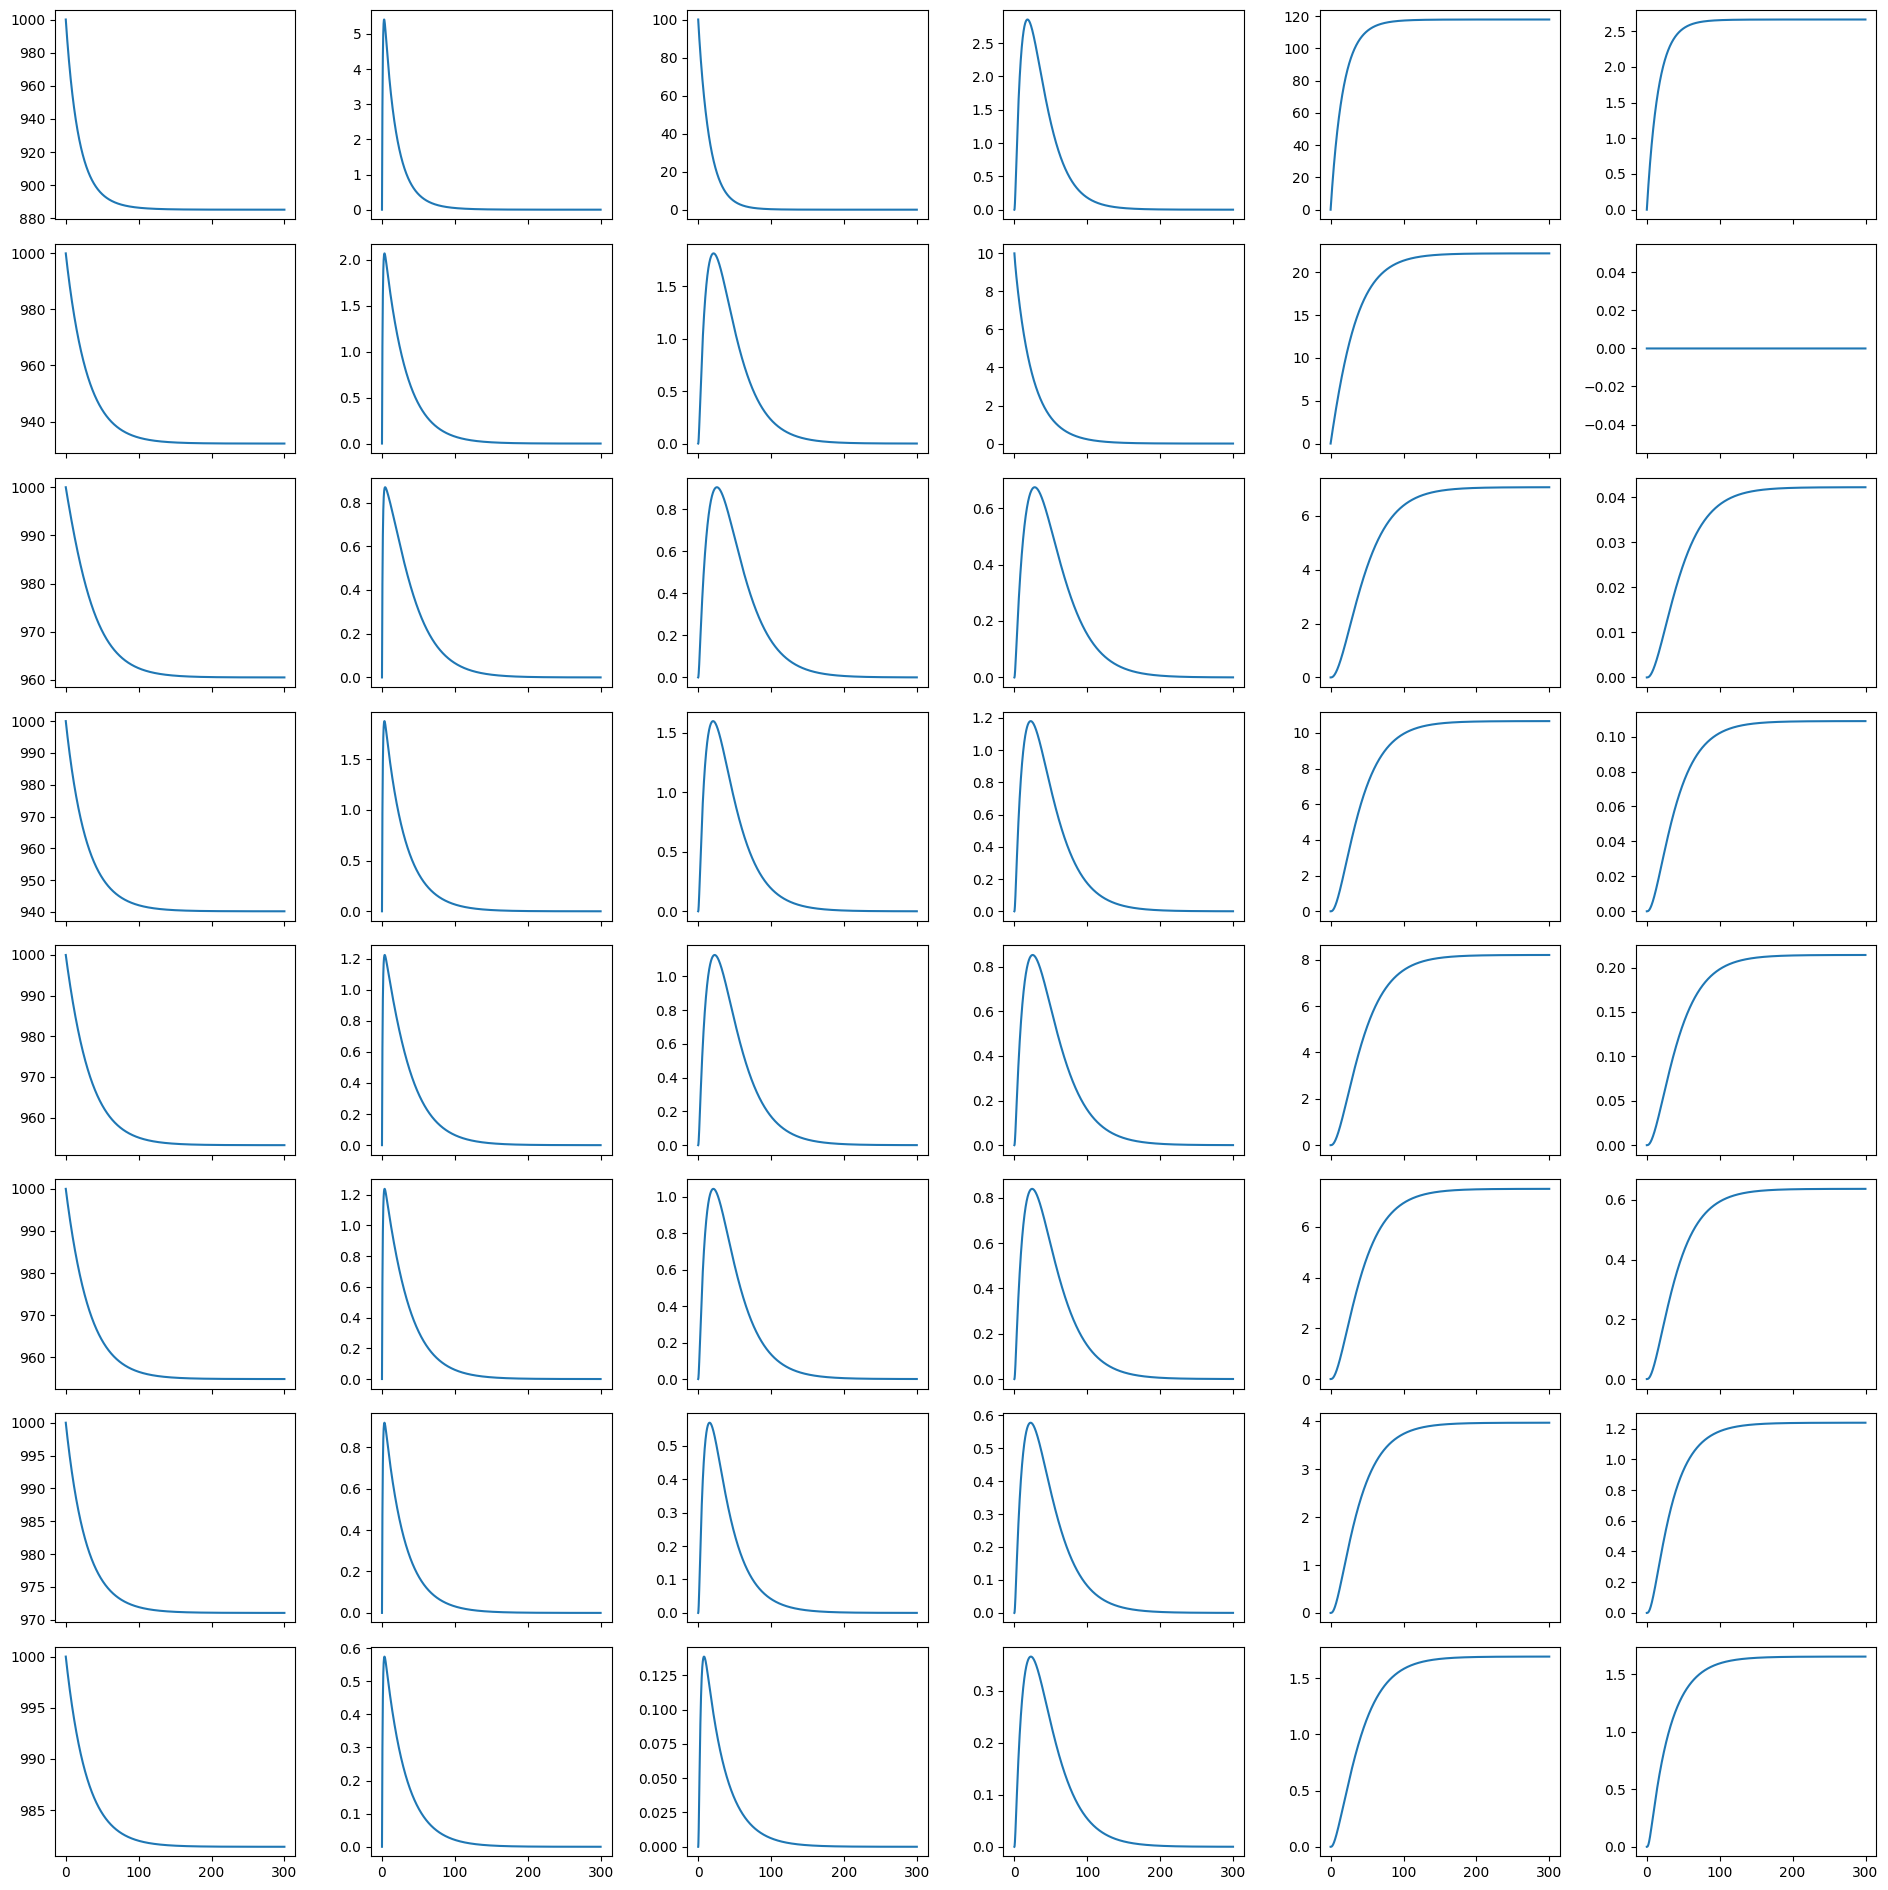
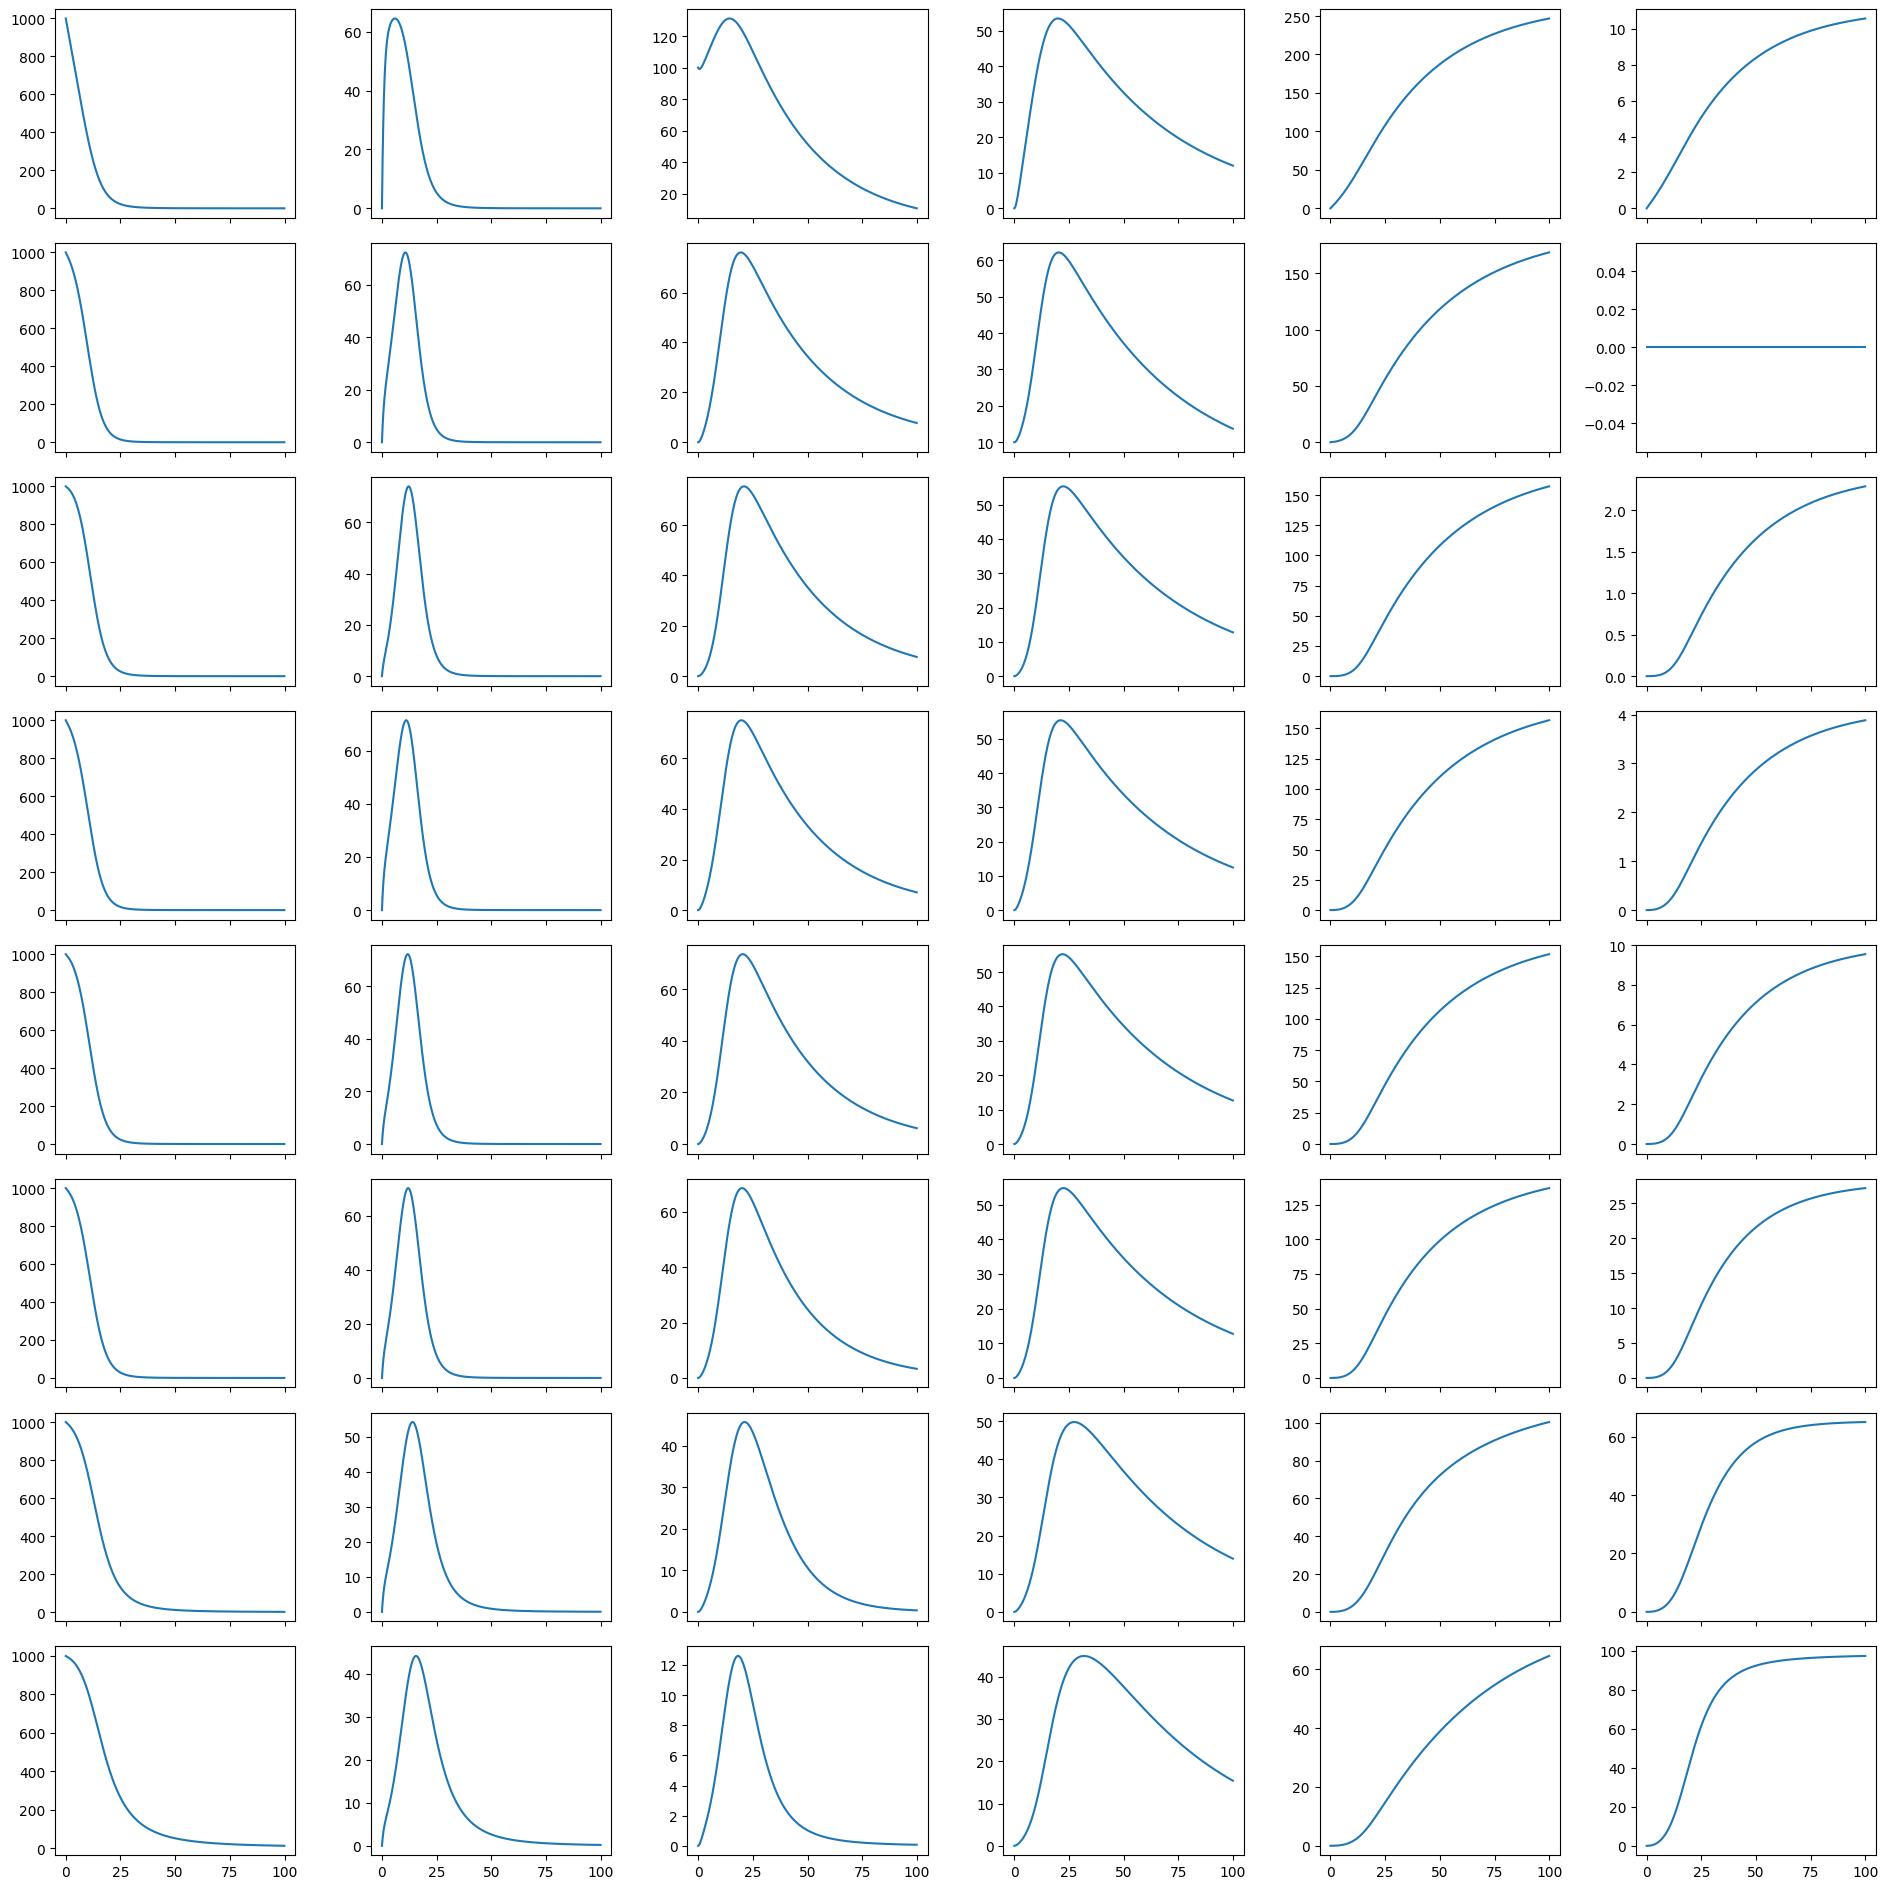
added some plotting options

diff --git a/seird_solver.py b/seird_solver.py
@@ -3,7 +3,10 @@ from utils.model_equations import SEIRD
 from utils.example_coefficient_matrices import (
     sweden_coefficients as sweden_coeff,
 )
-from utils.example_contact_matrices import sweden_contact_matrix
+from utils.example_contact_matrices import (
+    sweden_contact_matrix,
+    mozambique_contact_matrix,
+)
 
 
 def sum_m_contact_nm_times_I_m(contact_nm, I_m):
@@ -143,7 +146,7 @@ y0 = np.matrix(
 )
 y0_big = np.matrix(
     [
-        [1000, 1000, 1000, 1000, 1000, 1000, 1000, 1000],
+        [10000, 10000, 10000, 10000, 10000, 10000, 10000, 10000],
         [0, 0, 0, 0, 0, 0, 0, 0],
         [100, 0, 0, 0, 0, 0, 0, 0],
         [0, 10, 0, 0, 0, 0, 0, 0],
@@ -154,19 +157,57 @@ y0_big = np.matrix(
 
 
 solutions = solve(
-    SEIRD, (0, 300), y0_big, sweden_coeff, sweden_contact_matrix, 0.1
+    SEIRD, (0, 100), y0_big, sweden_coeff, sweden_contact_matrix, 0.1
 )
 
 
 import matplotlib.pyplot as plt
 
-fig, axs = plt.subplots(8, 6, sharex=True)
-axs.flatten()
-fig.set_size_inches(19, 19)
-plt.autoscale()
+
+# compare each age group's solutions to 6 diff eqs
+fig, axs = plt.subplots(
+    3,
+    2,
+    sharex=True,
+    gridspec_kw={"height_ratios": [1.5, 1.5, 1.5], "hspace": 0.1},
+)
+labels = [
+    [f"S$_{i}$" for i in range(1, 9)],
+    [f"E$_{i}$" for i in range(1, 9)],
+    [r"I$_{s," + str(i) + r"}$" for i in range(1, 9)],
+    [r"I$_{a," + str(i) + r"}$" for i in range(1, 9)],
+    [f"R$_{i}$" for i in range(1, 9)],
+    [f"D$_{i}$" for i in range(1, 9)],
+]
 for i in range(8):
-    for j in range(6):
-        axs[i, j].plot(solutions[0], solutions[j + 1][:, i])
-plt.tight_layout()
-plt.savefig("sweden_SEIRD.png", bbox_inches="tight")
-print(solutions[1].shape)
+    axs[0, 0].plot(solutions[0], solutions[1][:, i], label=labels[0][i])
+    axs[0, 1].plot(solutions[0], solutions[2][:, i], label=labels[1][i])
+    axs[1, 0].plot(solutions[0], solutions[3][:, i], label=labels[2][i])
+    axs[1, 1].plot(solutions[0], solutions[4][:, i], label=labels[3][i])
+    axs[2, 0].plot(solutions[0], solutions[5][:, i], label=labels[4][i])
+    axs[2, 1].plot(solutions[0], solutions[6][:, i], label=labels[5][i])
+for i in range(3):
+    for j in range(2):
+        axs[i, j].legend(
+            fontsize="small",
+            loc="upper right",
+            ncol=2,
+            fancybox=True,
+            shadow=True,
+            borderpad=0.5,
+            frameon=True,
+        )
+        axs[i, j].set_xlabel("Time")
+        axs[i, j].set_ylabel("Population")
+plt.show()
+
+# One way to plot solutions in a 8x6 grid
+# fig, axs = plt.subplots(8, 6, sharex=True)
+# axs.flatten()
+# fig.set_size_inches(19, 19)
+# plt.autoscale()
+# for i in range(8):
+#     for j in range(6):
+#         axs[i, j].plot(solutions[0], solutions[j + 1][:, i])
+# plt.tight_layout()
+# plt.savefig("sweden_SEIRD.png", bbox_inches="tight")

diff --git a/utils/example_coefficient_matrices.py b/utils/example_coefficient_matrices.py
@@ -23,7 +23,7 @@ gamma_s_by_age_group = np.array(
     [0.07, 0.07, 0.07, 0.07, 0.07, 0.07, 0.07, 0.07]
 )
 gamma_a_by_age_group = np.array(
-    [0.06, 0.06, 0.06, 0.06, 0.06, 0.06, 0.06, 0.06]
+    [0.02, 0.02, 0.02, 0.02, 0.02, 0.02, 0.02, 0.02]
 )
 delta_by_age_group = np.array(
     [0.0017, 0.0000, 0.0007, 0.0012, 0.0031, 0.0105, 0.0459, 0.3253]
